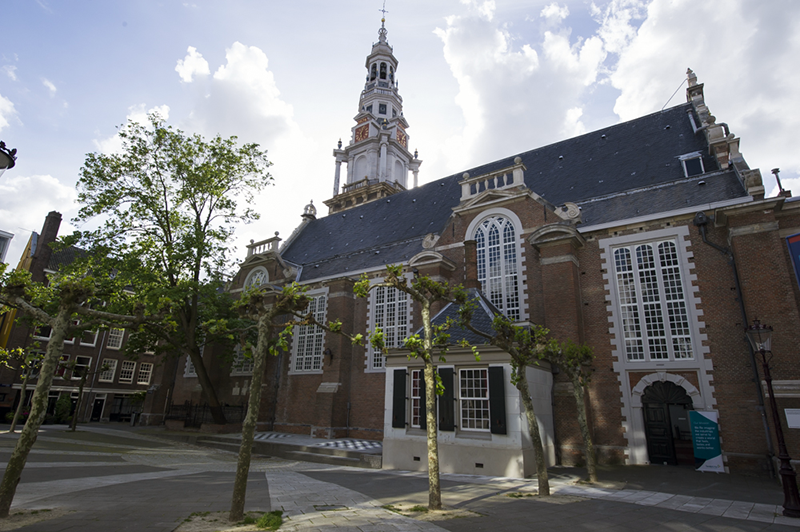
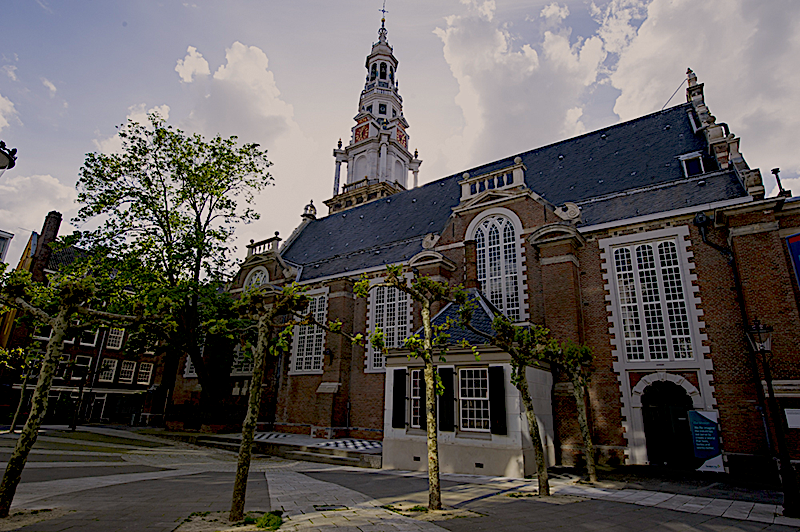
Added talks, darkened church photo

diff --git a/index.html b/index.html
@@ -933,6 +933,40 @@
               </p>
             </div>
           </li>
+
+          <li class="schedule-list__item">
+            <!--<div class="schedule-list__time">09.40</div>-->
+            <div class="schedule-list__speaker">Murat Çorlu</div>
+            <div class="schedule-list__desc">
+              <h3 class="schedule-list__title">Mock to start</h3>
+              <p class="schedule-list__p">
+                When you are developing an application that uses remote REST API endpoints, it will be hard to implement a new feature that has not an API implementation yet. Also always you need to have a running API server to continue development. Then, you probably will have some troubles to test some very exceptional issues because it's hard to reproduce that kind of issues.
+                All of these problems can be managed with a very simple client-side mocking approach. At this talk, we will talk about that approach and and how it is easy implementing a client-side mocking solution with connect-api-mocker library.
+              </p>
+            </div>
+          </li>
+
+          <li class="schedule-list__item">
+            <!--<div class="schedule-list__time">09.40</div>-->
+            <div class="schedule-list__speaker">Paulo Lopes</div>
+            <div class="schedule-list__desc">
+              <h3 class="schedule-list__title">Legalize JavaScript for the Enterprise Now!</h3>
+              <p class="schedule-list__p">
+                Do you suffer from Java fatigue at your organization? Are you blocked to introduce JavaScript in your project just because traditionally you only deploy on the JVM? In this talk I will show you how you can fight this! Let’s run JavaScript using all your favorite npm modules legally on the JVM!
+              </p>
+            </div>
+          </li>
+
+          <li class="schedule-list__item">
+            <!--<div class="schedule-list__time">09.40</div>-->
+            <div class="schedule-list__speaker">Fahad Ibnay Heylaal</div>
+            <div class="schedule-list__desc">
+              <h3 class="schedule-list__title">Embrace Reactive Programming in React and Vue with RxJS</h3>
+              <p class="schedule-list__p">
+                Combine the power of RxJS with your preferred components library (React or Vue).
+              </p>
+            </div>
+          </li>
         </ul>
       </div>
     </section>
